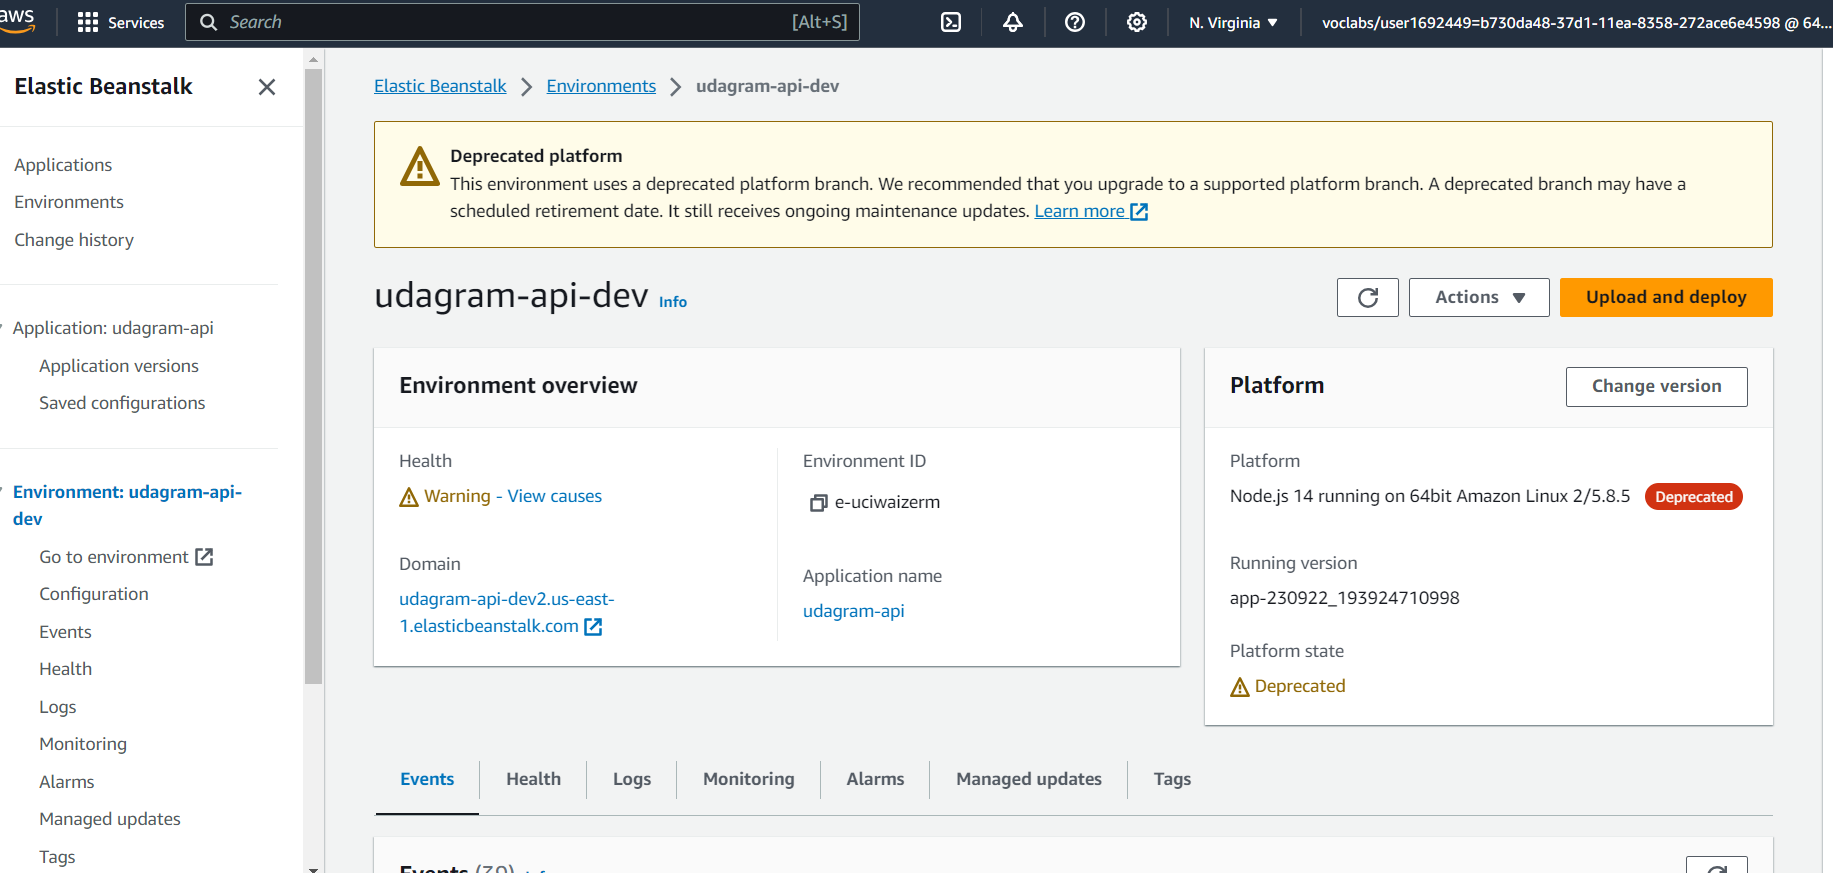
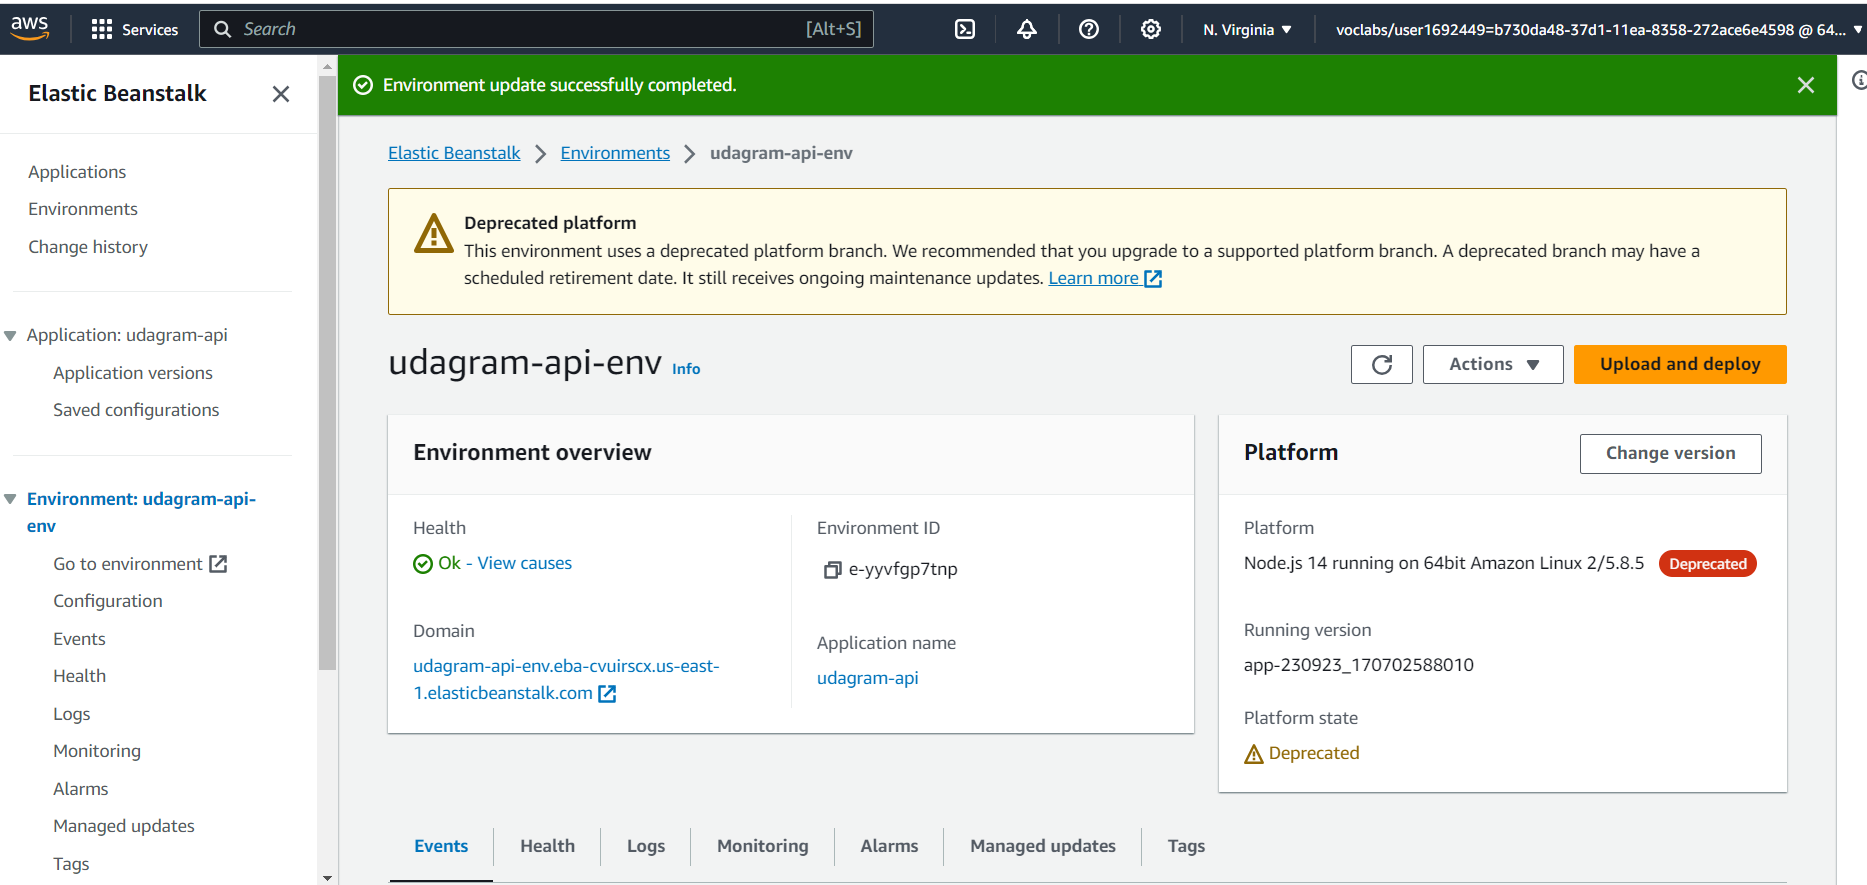
fixed elasticbeanstalk errors

diff --git a/udagram/udagram-frontend/src/environments/environment.prod.ts b/udagram/udagram-frontend/src/environments/environment.prod.ts
@@ -5,7 +5,7 @@
 export const environment = {
   production: true,
   appName: 'Udagram',
-  apiHost: 'http://udagram-api-dev2.us-east-1.elasticbeanstalk.com/api/v0'
+  apiHost: 'http://udagram-api-env.eba-cvuirscx.us-east-1.elasticbeanstalk.com/api/v0'
 };
 
 /*

diff --git a/udagram/udagram-frontend/src/environments/environment.ts b/udagram/udagram-frontend/src/environments/environment.ts
@@ -5,7 +5,7 @@
 export const environment = {
   production: true,
   appName: 'Udagram',
-  apiHost: 'http://udagram-api-dev2.us-east-1.elasticbeanstalk.com/api/v0'
+  apiHost: 'http://udagram-api-env.eba-cvuirscx.us-east-1.elasticbeanstalk.com/api/v0'
 };
 
 /*

diff --git a/documentations/Infrastructure_description.md b/documentations/Infrastructure_description.md
@@ -11,7 +11,7 @@ Database URL: `udagram-db.cpppoubr5ult.us-east-1.rds.amazonaws.com`
 #### Elastic Beanstalk
 The Node JS API was deployed to AWS Elastic Beanstalk.
 
-API URL: `http://udagram-api-dev2.us-east-1.elasticbeanstalk.com/`
+API URL: `http://udagram-api-env.eba-cvuirscx.us-east-1.elasticbeanstalk.com/`
 
 #### S3 Bucket
 The frontend application was deployed to AWS S3 Bucket and was made publicly accessible by static hosting.
